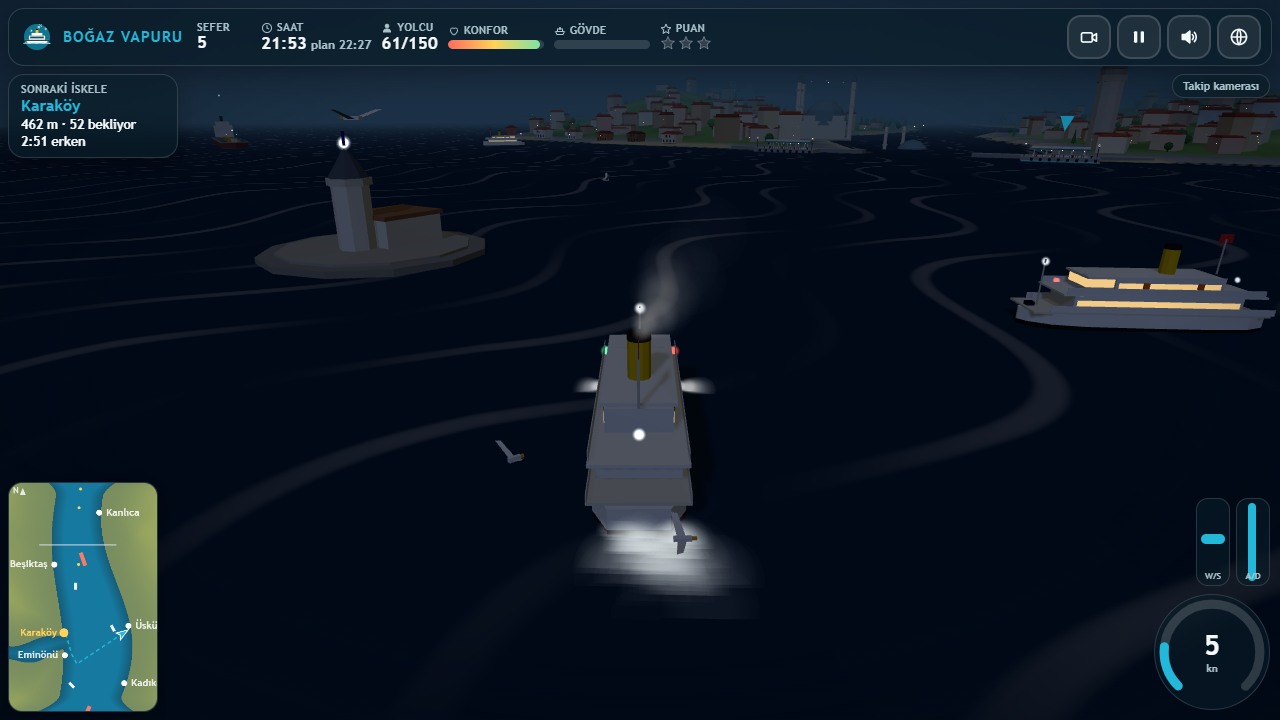
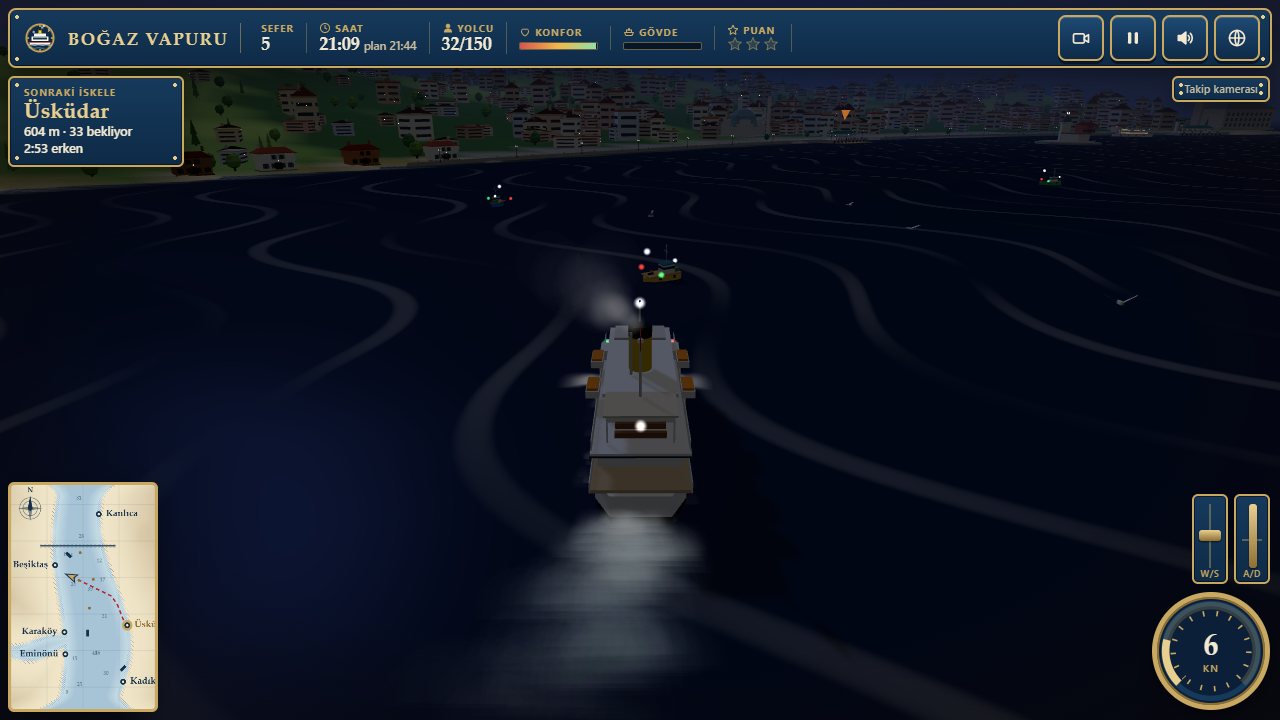
docs(redesign): new screenshots, before/after composite, README redesign section and measured numbers; softer dusk grade
Claude-Session: https://claude.ai/code/session_014vMYwwQ3htV8WjCni8q7av

diff --git a/index.html b/index.html
@@ -1991,7 +1991,7 @@ function buildSky() {
     fragmentShader: 'uniform vec3 uTop, uMid, uHor, uSun, uGlow; uniform float uGlowA, uBand; varying vec3 vP; void main(){ vec3 d = normalize(vP); float h = clamp(d.y, 0.0, 1.0);\n' +
       ' vec3 c = h < 0.14 ? mix(uHor, uMid, h / 0.14) : mix(uMid, uTop, pow((h - 0.14) / 0.86, 0.6));\n' +
       ' float sd = max(dot(d, uSun), 0.0); float g = pow(sd, 8.0) * uGlowA * (1.0 - h * 0.6) + pow(sd, 2.0) * uGlowA * 0.35 * (1.0 - h);\n' +
-      ' c += uGlow * g; c = mix(c, vec3(0.48, 0.17, 0.75), uBand * smoothstep(0.02, 0.16, h) * smoothstep(0.42, 0.2, h) * 0.35);\n' +
+      ' c += uGlow * g; c = mix(c, vec3(0.48, 0.17, 0.75), uBand * smoothstep(0.02, 0.16, h) * smoothstep(0.42, 0.2, h) * 0.26);\n' +
       ' gl_FragColor = vec4(c, 1.0);\n#include <colorspace_fragment>\n}',
   });
   skyMesh = new THREE.Mesh(new THREE.SphereGeometry(2600, 20, 12), sm); skyMesh.renderOrder = -10; skyMesh.frustumCulled = false; scene.add(skyMesh);
@@ -2148,7 +2148,7 @@ function updateSky(force) {
   SKY.gold = gold;
   // colours: Bosphorus day (#2a6fb5 / warm haze), sunset #F28C28 -> #7B2CBF, indigo night
   SKY.top.setHex(0x1f62ae).lerp(SKY.tmp.setHex(0x2e5aa8), gold * 0.5).lerp(SKY.tmp.setHex(0x4a2c8a), dusk * 0.85).lerp(SKY.tmp.setHex(0x08122c), night).lerp(SKY.tmp.setHex(0x4a5560), storm).lerp(SKY.tmp.setHex(0xaeb9c2), fogA * 0.6 * (1 - night));
-  SKY.mid.setHex(0x74b2e2).lerp(SKY.tmp.setHex(0xf0a868), gold * 0.75).lerp(SKY.tmp.setHex(0xd0609a), dusk * 0.9).lerp(SKY.tmp.setHex(0x141f44), night).lerp(SKY.tmp.setHex(0x5e6a76), storm).lerp(SKY.tmp.setHex(0xbfc7ce), fogA * 0.65 * (1 - night));
+  SKY.mid.setHex(0x74b2e2).lerp(SKY.tmp.setHex(0xf0a868), gold * 0.75).lerp(SKY.tmp.setHex(0xe07a66), dusk * 0.85).lerp(SKY.tmp.setHex(0x141f44), night).lerp(SKY.tmp.setHex(0x5e6a76), storm).lerp(SKY.tmp.setHex(0xbfc7ce), fogA * 0.65 * (1 - night));
   SKY.hor.setHex(0xe6dcc8).lerp(SKY.tmp.setHex(0xffc26a), gold * 0.85).lerp(SKY.tmp.setHex(0xf28c28), dusk).lerp(SKY.tmp.setHex(0x1c2742), night).lerp(SKY.tmp.setHex(0x6c7680), storm).lerp(SKY.tmp.setHex(0xc5ccd2), fogA * 0.7 * (1 - night));
   skyU.uTop.value.copy(SKY.top); skyU.uMid.value.copy(SKY.mid); skyU.uHor.value.copy(SKY.hor); skyU.uSun.value.copy(SKY.sunDir);
   skyU.uGlow.value.setHex(0xffd9a0).lerp(SKY.tmp.setHex(0xffa040), gold).lerp(SKY.tmp.setHex(0xff7a3a), dusk); skyU.uGlowA.value = (0.3 + 0.9 * gold + 0.9 * dusk) * (1 - night) * (1 - storm);
@@ -2167,7 +2167,7 @@ function updateSky(force) {
   stars.material.uniforms.fogNear.value = 1e8; stars.material.uniforms.fogFar.value = 1e9;
   renderer.setClearColor(SKY.tmp2);
   // water: Bosphorus blue #145DA0 by day, violet at dusk, ink at night, slate in a storm
-  waterMat.color.setHex(0x145da0).lerp(SKY.tmp.setHex(0x1f5a8c), gold * 0.4).lerp(SKY.tmp.setHex(0x3b3878), dusk * 0.6).lerp(SKY.tmp.setHex(0x0b2340), night).lerp(SKY.tmp.setHex(0x37515c), storm);
+  waterMat.color.setHex(0x145da0).lerp(SKY.tmp.setHex(0x1f5a8c), gold * 0.4).lerp(SKY.tmp.setHex(0x2f3a78), dusk * 0.45).lerp(SKY.tmp.setHex(0x0b2340), night).lerp(SKY.tmp.setHex(0x37515c), storm);
   waterU.uShallow.value.setHex(0x2f9ea8).lerp(SKY.tmp.setHex(0x4a8c90), gold * 0.4).lerp(SKY.tmp.setHex(0x0f2a36), night).lerp(SKY.tmp.setHex(0x4b6a70), storm);
   waterU.uSkyRef.value.copy(SKY.mid).lerp(SKY.hor, 0.5);
   waterU.uSunC.value.copy(sun.color); waterU.uSpec.value = (0.6 + 0.5 * gold + 0.6 * dusk) * (1 - night * 0.7) * (1 - storm * 0.8);

diff --git a/README.md b/README.md
@@ -98,7 +98,7 @@ continue under `arena.vapur.save`. The language follows the browser (Turkish or 
 | `?debug` | fps, draw calls, triangles, state, bot results and JS errors on screen; `window.vapurSim(seconds)` fast-forwards |
 | `?sim=N` | fast-forward N seconds of the first shift before the first frame (add `&auto` to let the bot sail) |
 | `?low` | shadows off, pixel ratio 1, half the particles |
-| `?noassets` | skip the lookup for optional sound samples (everything is synthesised anyway) |
+| `?noassets` | kept for the arena test suite: no asset files are fetched in any case (every sound is synthesised) |
 | `?lang=en` / `?lang=tr` | language |
 | `?shift=N` | start the campaign at shift N |
 | `?mode=endless` | with `?auto` or `?sim`, start in endless mode |
@@ -118,7 +118,7 @@ rendering.
   <tr>
     <td width="33%"><img src="docs/01-title.png" alt="Title screen"><br><sub>Title screen</sub></td>
     <td width="33%"><img src="docs/02-docking.png" alt="Moored at Karaköy"><br><sub>Moored at Karaköy</sub></td>
-    <td width="33%"><img src="docs/03-dusk.png" alt="Approaching Eminönü at dusk with the docking guide"><br><sub>Dusk run and the docking guide</sub></td>
+    <td width="33%"><img src="docs/03-dusk.png" alt="Leaving Eminönü on the evening run at dusk"><br><sub>Evening run at dusk</sub></td>
   </tr>
   <tr>
     <td><img src="docs/04-night.png" alt="Night with the Maiden's Tower"><br><sub>Night, Maiden's Tower</sub></td>
@@ -133,8 +133,44 @@ Piers, timetables and difficulty are one data table in the code (`PIER_DEF`, `SH
 timetable is derived from the route length and the shift's pace. The `?auto` captain routes through the fairway graph,
 compensates the current, slows for traffic and docks by sliding in at a shallow angle. It finishes the campaign with 3
 stars on every shift and needed one or two retries on shifts 5, 6 and 8 (night, strong current, convoy), which is the
-intended difficulty curve. Measured on an Intel UHD GPU at 1280x720: 21 to 27 draw calls, about 225 000 triangles and
-57 fps (vsync-capped) in busy dusk, night, storm and phone scenes on the High tier.
+intended difficulty curve. Measured on an Intel UHD 620 at 1280x720 after the 2026-11 redesign: 25 to 32 draw calls,
+about 440 000 triangles and 60 fps (vsync-capped) in the title, docking, dusk, night, storm and phone scenes on the
+High tier.
+
+## Redesign (2026-11)
+
+<p align="center"><img src="docs/redesign-before-after.png" width="100%" alt="The same chase-camera moment before and after the redesign"></p>
+
+**Art direction:** stylized low-poly 3D with a cinematic golden-hour default. Palette: Bosphorus blue `#145DA0`, sunset
+`#F28C28` to `#7B2CBF`, the white ferry with its yellow-and-black funnel, pastel yalıs, bridge steel `#6B7280`; the UI is a
+maritime chart (navy instrument panels with brass edges, parchment chart cards, rope dividers).
+
+What changed (gameplay, physics, levels, scoring, saves and the bot are untouched):
+
+- **Light and sky.** A three-stop sky with a sun glow and a violet band at dusk, a golden-hour grade when the sun is low,
+  drifting cloud clusters, warmer fog; the water is Bosphorus blue with a sky reflection at grazing angles, a sparkling
+  glitter path towards the sun and lace foam along the shore. The title scene is now set at 18:30.
+- **Shores.** Town houses carry window bands and either a parapet with a water tank or a terracotta hip roof; the city
+  shores have stone sea walls with bollards and ornate lamp posts; a Dolmabahçe-like palace, a Rumeli Hisarı-like
+  fortress and a Haydarpaşa-like station join the mosques and towers; distant hills close the horizon; trees have
+  layered canopies and the yalıs got shutters, boathouses and chimneys.
+- **Boats and piers.** The ferry has a red boot-top, teak deck, bridge wings, lifeboats on davits, an aft awning with
+  benches, fenders, a name board and a flag emblem; tankers carry pipe runs, derrick cranes and a lifeboat; fishing
+  boats have nets, buoys and a mast lamp; the piers have slate-green hipped halls, clock towers, ticket booths, benches
+  and flagpoles.
+- **Motion.** A layered wake (stern churn, foam carpet, bow wave, spray at speed, a foam collar along the hull) that dims
+  at night; a cinematic docking camera that drifts out over the water and frames the ferry against the pier, with a slow
+  orbit while moored; a slightly wider field of view at speed.
+- **UI.** Every screen restyled: brass-edged navy HUD with serif numerals, a brass-bezel log dial, a nautical minimap
+  with soundings, a graticule and a compass rose, parchment chart cards with rope dividers, a compass-ring logo; phone
+  portrait and landscape layouts adjusted (the docking guide moves to the top in landscape).
+- The lookups for optional `assets/sfx/*.mp3` files were removed (they never shipped and only produced 404s).
+
+Measured on the Intel UHD 620 at 1280x720, High tier: before 21 to 28 draw calls / about 224 000 triangles / 60 fps; after
+25 to 32 draw calls / about 440 000 triangles / 60 fps. The `?auto` captain finished the campaign with 3 stars on every
+shift, with and without `?noassets`, with zero JS errors (retries on shifts 5 and 8 as before).
+
+Redesigned by **Claude Fable 5.1** with Claude Code on the `redesign` branch.
 
 ## Running locally
 
